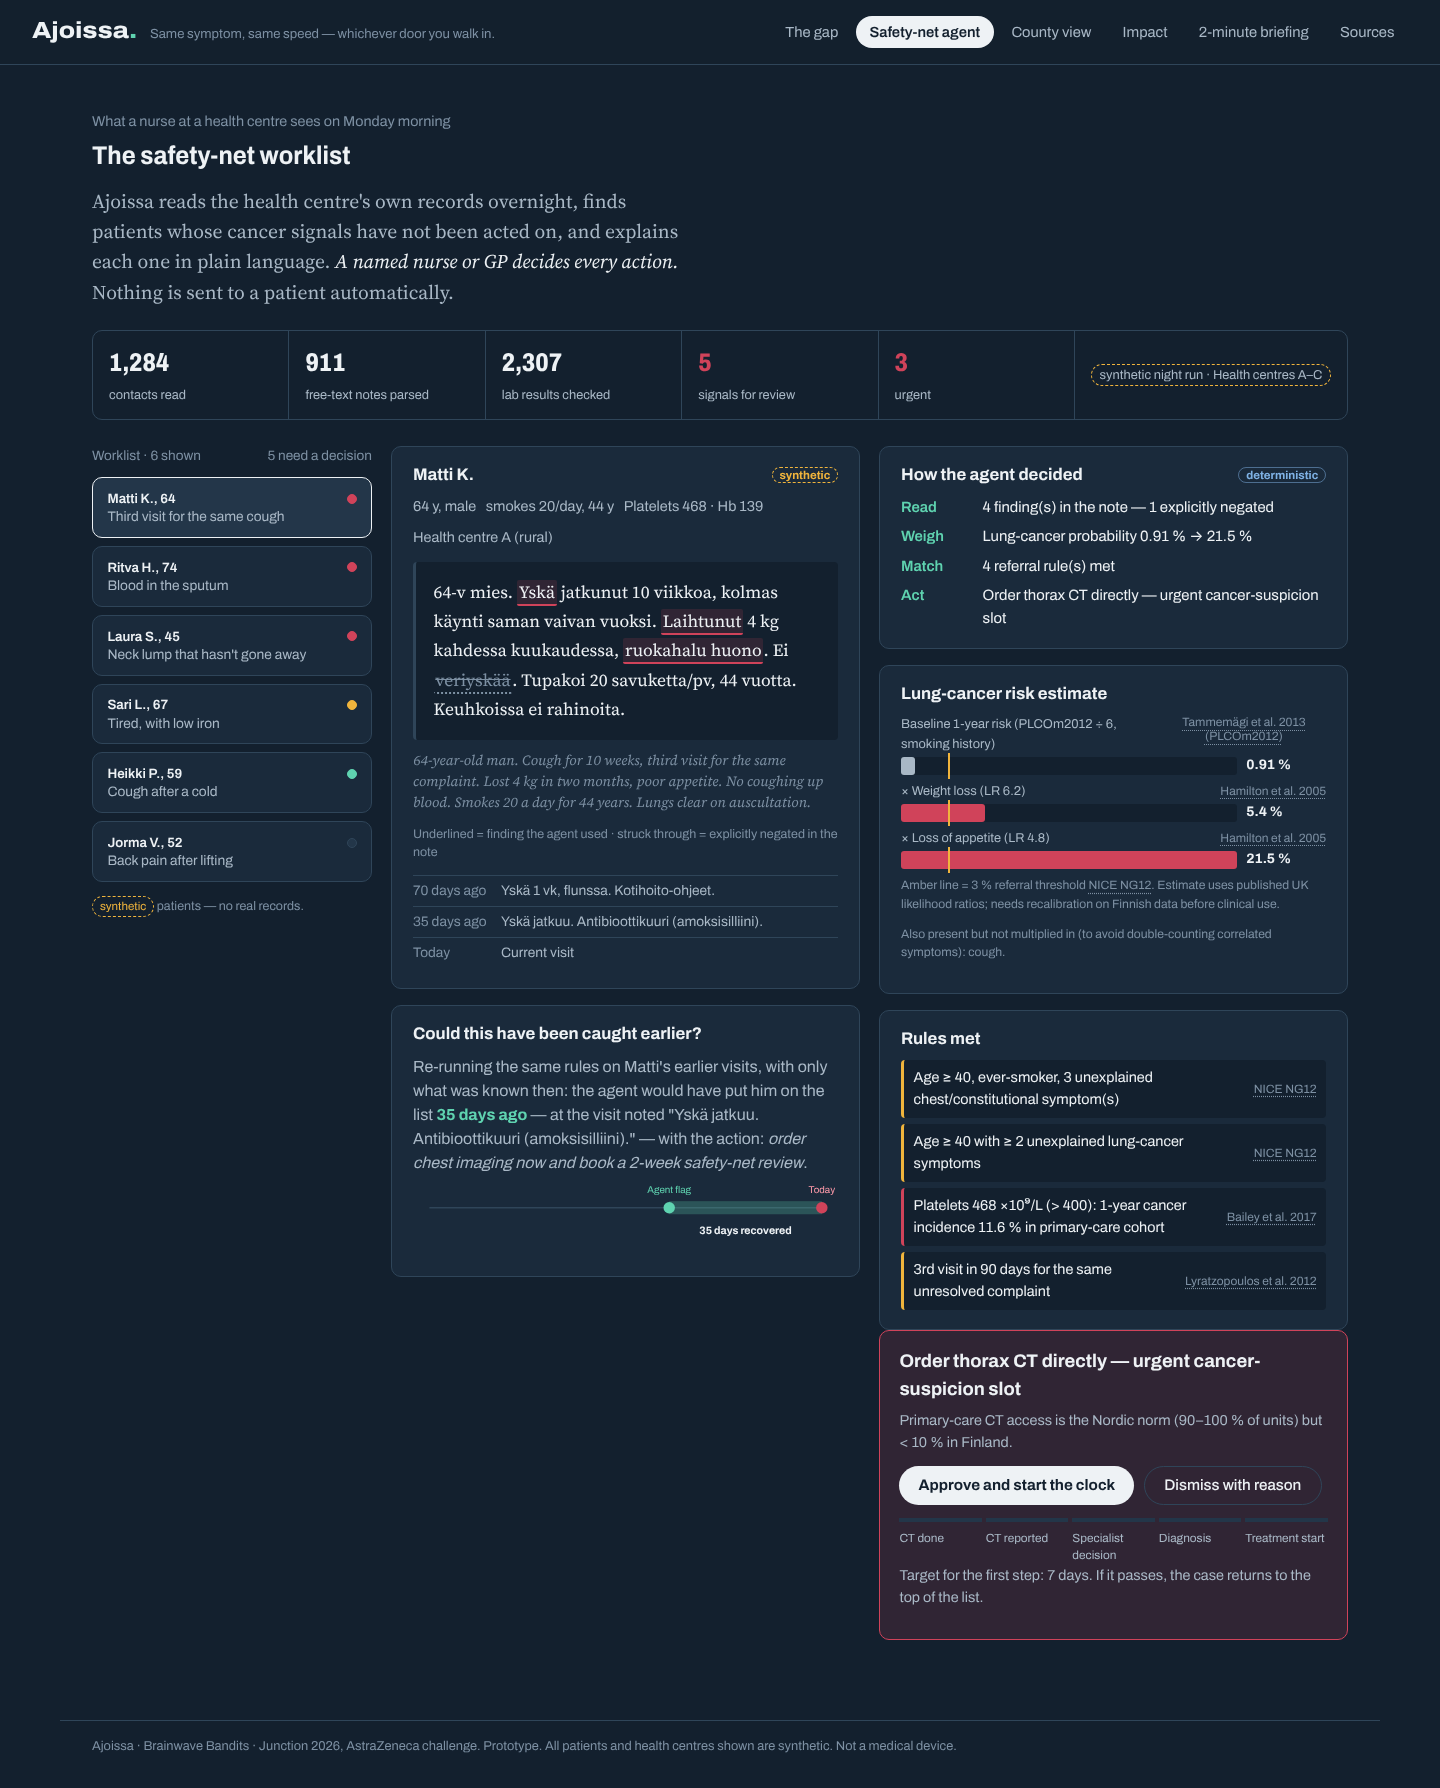
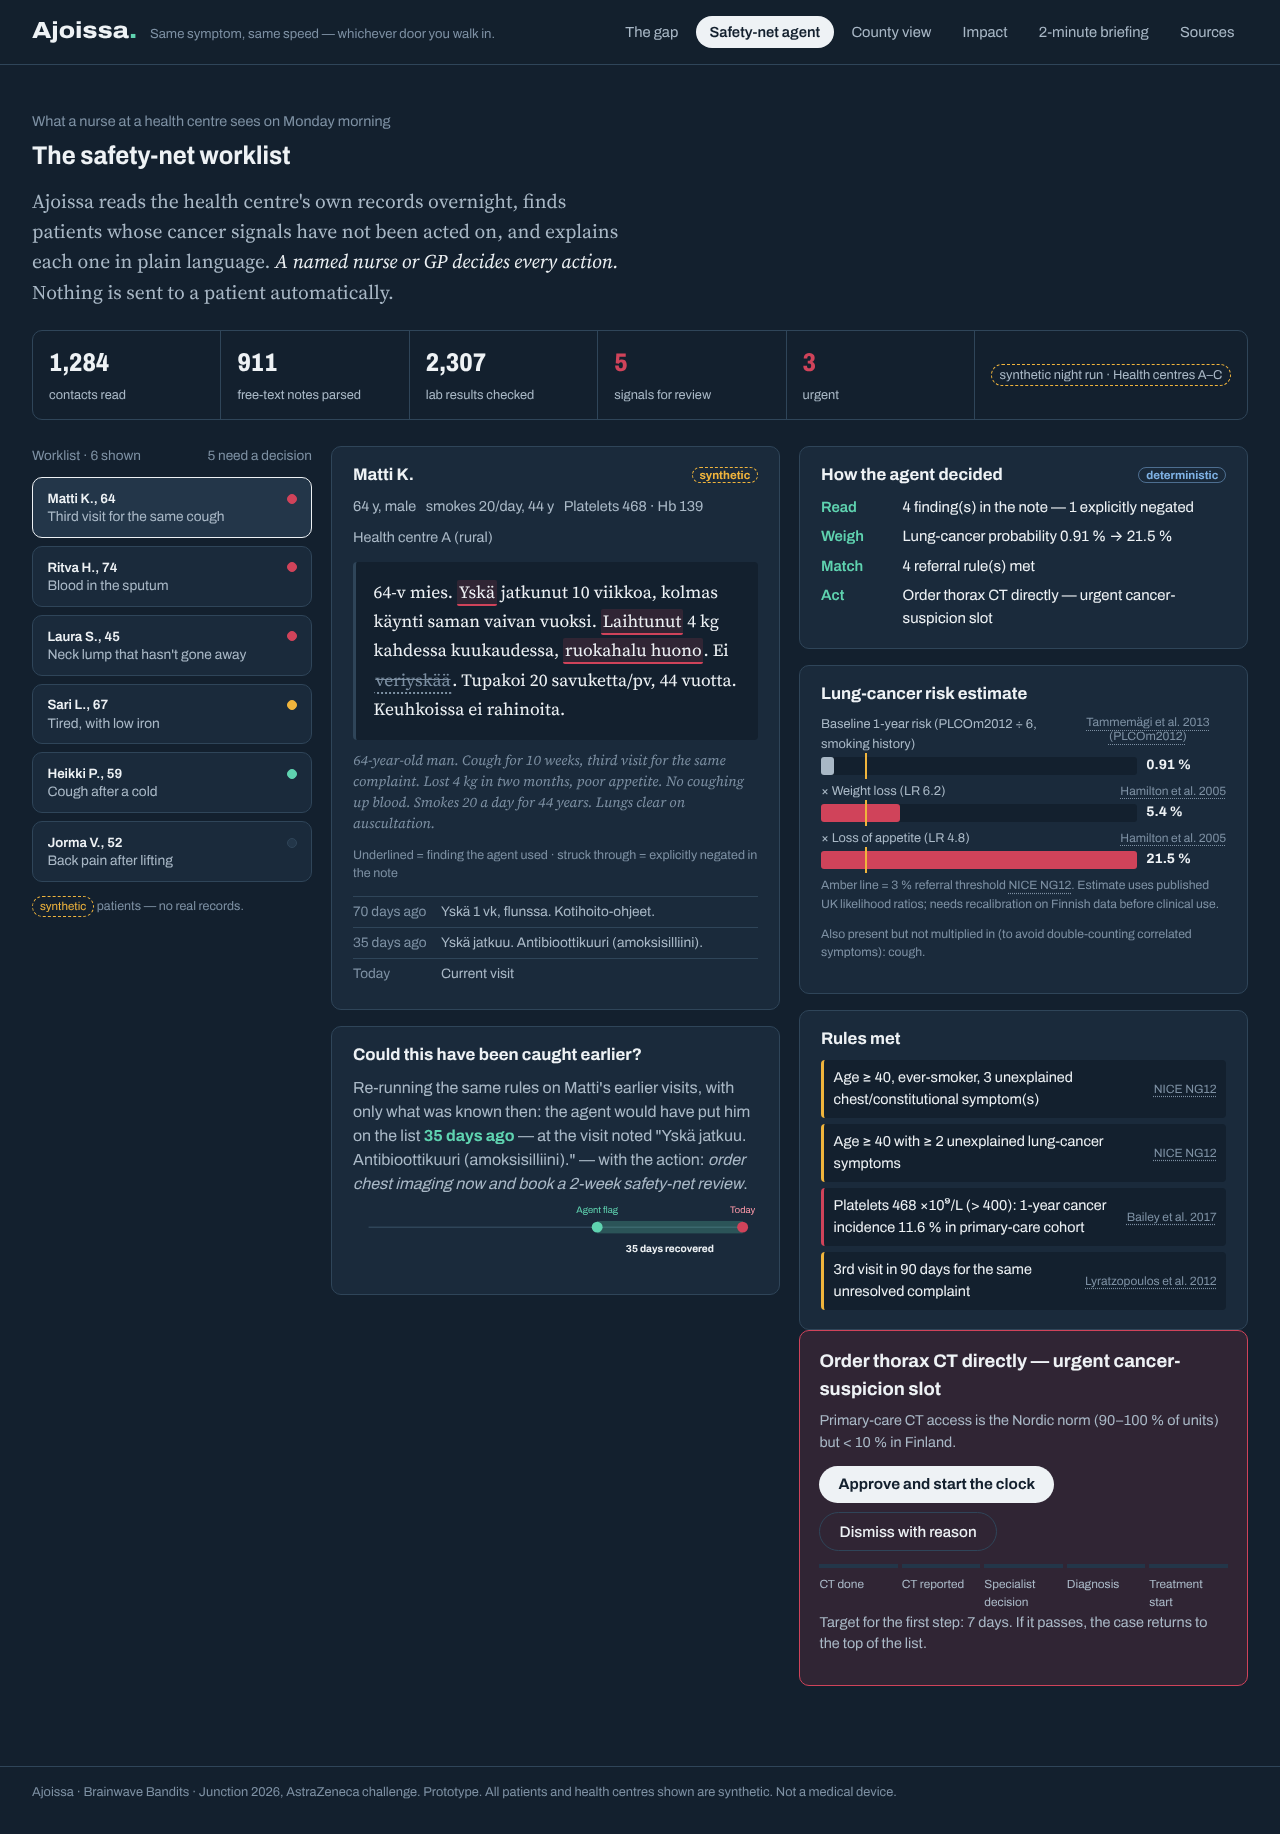
Try-your-own-note live editor in agent view
Claude-Session: https://claude.ai/code/session_01AsaNd9zGyE7C2rGhmzNBqv

diff --git a/app/js/app.js b/app/js/app.js
@@ -126,8 +126,10 @@
       assessed.map(({ c, r }) => `<button class="qcard" aria-pressed="${current === c.id}" data-case="${c.id}">
         <span class="who">${c.name}, ${c.patient.age}</span><span class="flag ${r.action.key === "none" ? "" : tone(r)}" title="${r.action.key}"></span>
         <span class="what">${c.headline}</span></button>`).join("") +
+      `<button class="qcard" aria-pressed="${current === "custom"}" id="trynote" style="border-style:dashed"><span class="who">Try your own note</span><span class="flag"></span><span class="what">Type a visit note in Finnish or English and watch the agent read it</span></button>` +
       `<p style="font-size:.78rem;color:var(--mute);margin-top:.4rem"><span class="synthetic-tag">synthetic</span> patients — no real records.</p>`;
-    document.querySelectorAll(".qcard").forEach(b => b.addEventListener("click", () => selectCase(b.dataset.case)));
+    document.querySelectorAll(".qcard[data-case]").forEach(b => b.addEventListener("click", () => selectCase(b.dataset.case)));
+    $("#trynote").addEventListener("click", openEditor);
   }
 
   function highlight(note, mentions) {
@@ -212,6 +214,41 @@
     if (dr) dr.addEventListener("click", () => draftReferral(c, r, $("#draft-out"), dr));
     const dm = $("#dismiss");
     if (dm) dm.addEventListener("click", () => { dm.textContent = "Dismissed — reason logged for audit"; dm.disabled = true; });
+  }
+
+  const custom = { id: "custom", name: "Your patient", centre: "Your health centre", synthetic: true, history: [], labs: {},
+    patient: { age: 58, sex: "F", smoking: { ever: true, current: false, cigsPerDay: 15, years: 30, quitYears: 5 } },
+    note: "58-v nainen. Yskä 5 viikkoa, hengenahdistusta rasituksessa. Ei veriyskää. Ei kuumetta.", noteEn: "", headline: "" };
+  function openEditor() {
+    current = "custom"; renderQueue();
+    const p = custom.patient, sm = p.smoking.ever ? (p.smoking.current ? "current" : "ex") : "never";
+    $("#note-col").innerHTML = `<div class="panel"><h3><span>Try your own note</span><span class="synthetic-tag">your input stays in this browser</span></h3>
+      <div class="patient-meta" style="gap:.8rem">
+        <label>Age <input id="e-age" type="number" min="18" max="100" value="${p.age}" style="width:4.5rem"></label>
+        <label>Sex <select id="e-sex"><option value="F" ${p.sex === "F" ? "selected" : ""}>F</option><option value="M" ${p.sex === "M" ? "selected" : ""}>M</option></select></label>
+        <label>Smoking <select id="e-smk"><option value="never" ${sm === "never" ? "selected" : ""}>never</option><option value="current" ${sm === "current" ? "selected" : ""}>current</option><option value="ex" ${sm === "ex" ? "selected" : ""}>former</option></select></label>
+        <label>/day <input id="e-cig" type="number" min="1" max="80" value="${p.smoking.cigsPerDay || 15}" style="width:4rem"></label>
+        <label>years <input id="e-yrs" type="number" min="1" max="70" value="${p.smoking.years || 30}" style="width:4rem"></label>
+        <label>Platelets <input id="e-plt" type="number" min="50" max="1500" placeholder="–" value="${custom.labs.plt || ""}" style="width:5rem"></label>
+        <label>Earlier visits for this (90 d) <input id="e-rep" type="number" min="0" max="6" value="${custom.history.length}" style="width:3.5rem"></label>
+      </div>
+      <textarea id="e-note" rows="6" style="width:100%;background:var(--night);color:var(--snow);border:1px solid var(--line);border-radius:6px;padding:.8rem;font-family:var(--serif);font-size:1.05rem;line-height:1.6">${esc(custom.note)}</textarea>
+      <div class="note" id="e-hl" style="margin-top:.8rem"></div>
+      <p class="scale-note">Examples: “Yskinyt verta”, “laihtunut 6 kg”, “ei laihtumista”, “neck lump for 4 weeks, night sweats”, “kiistää veriyskän”.</p></div>`;
+    const sync = () => {
+      const smk = $("#e-smk").value;
+      custom.patient = { age: +$("#e-age").value || 50, sex: $("#e-sex").value, smoking: smk === "never" ? { ever: false } : { ever: true, current: smk === "current", cigsPerDay: +$("#e-cig").value || 10, years: +$("#e-yrs").value || 20, quitYears: smk === "ex" ? 5 : 0 } };
+      custom.labs = $("#e-plt").value ? { plt: +$("#e-plt").value } : {};
+      const n = +$("#e-rep").value || 0; custom.history = Array.from({ length: n }, (_, i) => ({ daysAgo: 20 + i * 25, related: true, text: "(earlier visit for the same complaint)" }));
+      custom.note = $("#e-note").value;
+      const am = custom.note.match(/(\d{2})\s*-?\s*(v\b|v\.|vuotias|year|y\/o|yo\b)/i);
+      if (am && document.activeElement && document.activeElement.id === "e-note") { $("#e-age").value = am[1]; custom.patient.age = +am[1]; }
+      const r = A.assess(custom);
+      $("#e-hl").innerHTML = highlight(custom.note, r.extraction.mentions);
+      renderReasoning(custom, r);
+    };
+    $("#note-col").querySelectorAll("input,select,textarea").forEach(x => x.addEventListener("input", sync));
+    sync();
   }
 
   function runClock() {

diff --git a/app/css/app.css b/app/css/app.css
@@ -232,3 +232,4 @@ table.tbl tr.clickable:hover td { background: var(--night-3); }
 
 .live-only { display: none; }
 body.live-ai .live-only { display: block; }
+.patient-meta input, .patient-meta select { background: var(--night); color: var(--snow); border: 1px solid var(--line); border-radius: 4px; padding: .15rem .3rem; font: inherit; }
